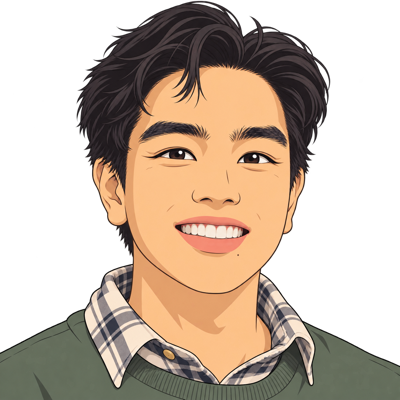
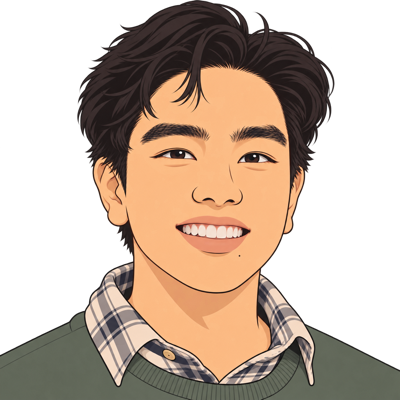
Simpler portrait with a short snapped glyph ramp
Flat cartoon colours now map to one even texture each (8-glyph ramp, percentile stretch) instead of being spread across a long ramp, so the face reads clean and features stand out.

diff --git a/src/components/AsciiPortrait.tsx b/src/components/AsciiPortrait.tsx
@@ -4,20 +4,22 @@ import { useEffect, useRef, useState, type ReactNode } from 'react'
 // become heavy glyphs and dark areas (hair, eyes) light ones, so it reads like
 // the picture on a dark page; a bright outline traces the silhouette so dark
 // hair still has a shape. The backdrop is left blank.
-//   1. tone — brightness ranked within the subject, so flat cartoon colours
-//      spread over the ramp; thin ink lines are kept as gaps
+//   1. tone — brightness stretched across the subject and snapped to a short
+//      ramp, so flat colours read as even textures; thin ink lines stay gaps
 //   2. outline — a Sobel edge on the alpha mask, drawn on top like a pen
-//   3. glyphs — tone picks from a ~60-step ramp; rows sit closer than the
-//      font is tall, so strokes overlap into a dense, drawn texture
+//   3. glyphs — rows sit closer than the font is tall, so strokes overlap
+//      into a dense, drawn texture
 // Each glyph sits on a spring; the cursor pushes glyphs away and they settle.
 
-// Ordered from lightest to heaviest. Starts at ':' so even the darkest parts
-// of the subject keep a faint texture inside the silhouette.
-const RAMP = ':;Il!i><~+_-?][}{1)(|\\/tfjrxnuvczXYUJCLQ0OZmwqpdbkhao*#MW&8%B@$'
+// Ordered from lightest to heaviest. Short on purpose: a flat cartoon colour
+// lands on one glyph and reads as an even texture, so features stand out.
+// Starts at ':' so even the darkest parts keep a faint texture.
+const RAMP = ':;=+*#%@'
 const COLS = 92
 const CELL = 0.79 // cell width / height; tighter than the font so rows overlap
 const INK_LINES = 0.6 // how much a cell's darkest subpixel (line work) pulls it dark
-const GAMMA = 1.4 // >1 keeps mid-tones (skin) lighter than highlights
+const LOW = 0.04 // brightness percentiles that map to the ends of the ramp
+const HIGH = 0.97
 const RADIUS = 46 // px of cursor influence
 const PUSH = 2600
 const SPRING = 90
@@ -111,26 +113,19 @@ export default function AsciiPortrait({ src, alt, fallback }: { src: string; alt
         }
       }
 
-      // Rank brightness within the subject so flat cartoon colours spread over
-      // the ramp: skin lands mid-ramp and highlights (teeth, collar) above it.
+      // Stretch brightness between percentiles of the subject, then snap to
+      // the ramp's steps so each flat colour becomes one even texture.
       const sorted = cells.filter((k) => k.cover >= 0.3).map((k) => k.light).sort((x, y) => x - y)
-      const rank = (l: number) => {
-        let lo = 0
-        let hi = sorted.length
-        while (lo < hi) {
-          const mid = (lo + hi) >> 1
-          if (sorted[mid] < l) lo = mid + 1
-          else hi = mid
-        }
-        return lo / (sorted.length || 1)
-      }
+      const lo = sorted[Math.floor(sorted.length * LOW)] ?? 0
+      const hi = sorted[Math.floor(sorted.length * HIGH)] ?? 1
+      const tone = (l: number) => Math.min(1, Math.max(0, (l - lo) / (hi - lo || 1)))
 
       glyphs = []
       cells.forEach(({ cover, light, line }, i) => {
         if (cover < 0.3 && line < 0.5) return
         const c = i % COLS
         const r = Math.floor(i / COLS)
-        const amount = Math.max(Math.pow(rank(light), GAMMA), line * 0.92)
+        const amount = Math.max(tone(light), line)
         glyphs.push({
           ch: RAMP[Math.round(amount * (RAMP.length - 1))],
           alpha: 0.45 + 0.55 * amount,
